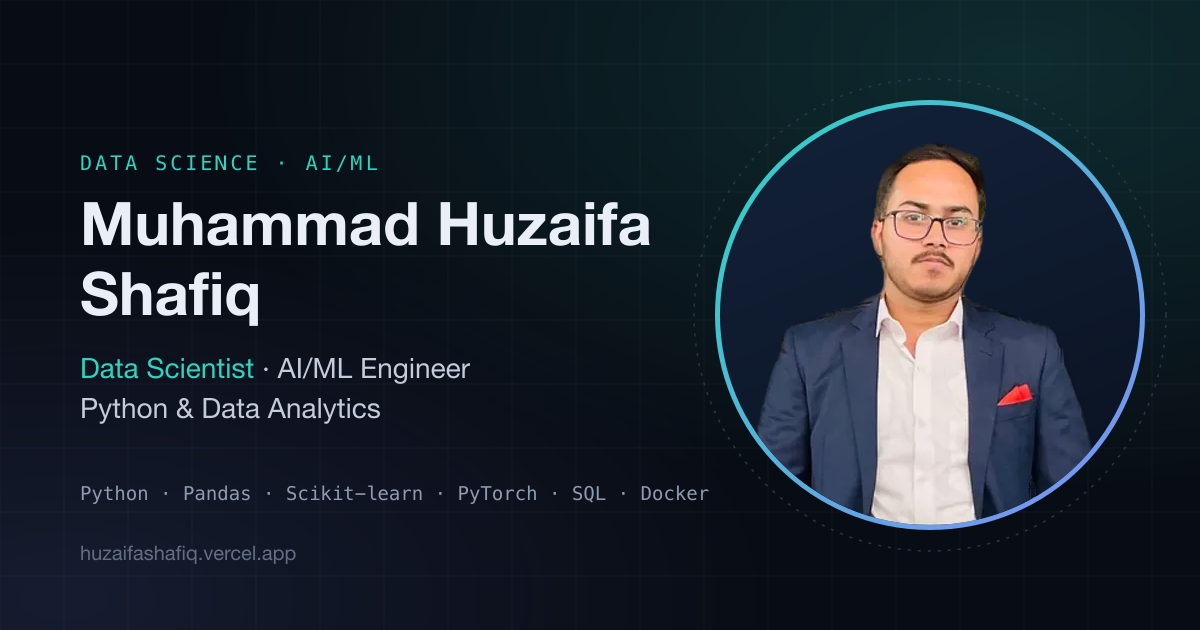
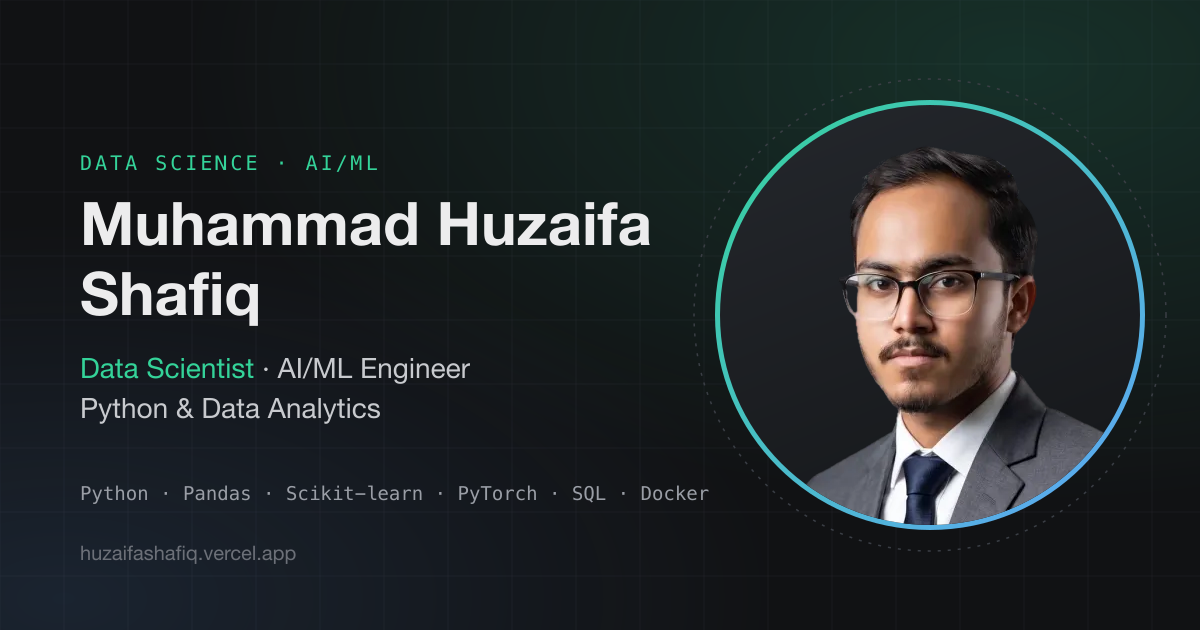
Replace profile photo with new headshot and add back-to-top button
- New studio headshot: background removed, grey rim around the hair
  cleaned up, head-and-shoulders crop for the circular frame; saved under
  a new filename so cached copies of the old photo aren't served
- Updated alt text and README references
- Regenerated the Open Graph image with the new photo and the charcoal /
  emerald palette
- Back-to-top button fixed at the middle of the right edge: appears after
  scrolling, ring shows scroll progress, smooth scroll (instant with
  reduced motion) and returns keyboard focus to the top of the page

diff --git a/src/components/BackToTop.tsx b/src/components/BackToTop.tsx
@@ -1,0 +1,76 @@
+"use client";
+
+import { useEffect, useRef, useState } from "react";
+import { ArrowUp } from "./Icons";
+
+const R = 20;
+const C = 2 * Math.PI * R;
+
+/**
+ * Round "back to top" button fixed at the middle of the right edge.
+ * Appears after scrolling down; the ring shows how far down the page you are.
+ */
+export default function BackToTop() {
+  const [visible, setVisible] = useState(false);
+  const ring = useRef<SVGCircleElement>(null);
+
+  useEffect(() => {
+    let frame = 0;
+    const update = () => {
+      cancelAnimationFrame(frame);
+      frame = requestAnimationFrame(() => {
+        const y = window.scrollY;
+        const max = document.documentElement.scrollHeight - window.innerHeight;
+        setVisible(y > Math.min(600, window.innerHeight * 0.8));
+        ring.current?.setAttribute("stroke-dashoffset", String(C * (1 - (max > 0 ? Math.min(1, y / max) : 0))));
+      });
+    };
+    update();
+    window.addEventListener("scroll", update, { passive: true });
+    window.addEventListener("resize", update);
+    return () => {
+      cancelAnimationFrame(frame);
+      window.removeEventListener("scroll", update);
+      window.removeEventListener("resize", update);
+    };
+  }, []);
+
+  function toTop() {
+    const reduce = window.matchMedia("(prefers-reduced-motion: reduce)").matches;
+    window.scrollTo({ top: 0, behavior: reduce ? "auto" : "smooth" });
+    // Move keyboard focus back to the start of the page as well.
+    document.querySelector<HTMLElement>("header a[href='/#home']")?.focus({ preventScroll: true });
+  }
+
+  return (
+    <button
+      type="button"
+      onClick={toTop}
+      aria-label="Back to top"
+      title="Back to top"
+      tabIndex={visible ? 0 : -1}
+      aria-hidden={!visible}
+      className={`group fixed top-1/2 right-3 z-40 grid size-11 -translate-y-1/2 place-items-center rounded-full border border-line-strong bg-panel/90 text-ink shadow-lift backdrop-blur transition-all duration-300 hover:border-accent/60 hover:text-accent sm:right-5 sm:size-12 ${
+        visible ? "translate-x-0 opacity-100" : "pointer-events-none translate-x-4 opacity-0"
+      }`}
+    >
+      <svg className="absolute inset-0 size-full -rotate-90" viewBox="0 0 48 48" aria-hidden>
+        <circle cx="24" cy="24" r={R} fill="none" stroke="var(--line)" strokeWidth="2" />
+        <circle
+          ref={ring}
+          cx="24"
+          cy="24"
+          r={R}
+          fill="none"
+          stroke="var(--accent)"
+          strokeWidth="2"
+          strokeLinecap="round"
+          strokeDasharray={C}
+          strokeDashoffset={C}
+          className="transition-[stroke-dashoffset] duration-150"
+        />
+      </svg>
+      <ArrowUp size={18} className="relative transition-transform duration-200 group-hover:-translate-y-0.5" />
+    </button>
+  );
+}

diff --git a/src/app/layout.tsx b/src/app/layout.tsx
@@ -4,6 +4,7 @@ import "@/styles/globals.css";
 import SiteHeader from "@/components/SiteHeader";
 import SiteFooter from "@/components/SiteFooter";
 import BackgroundFX from "@/components/BackgroundFX";
+import BackToTop from "@/components/BackToTop";
 import { themeInitScript } from "@/components/ThemeToggle";
 import { seo, siteUrl } from "@/data/site";
 import { profile } from "@/data/profile";
@@ -76,6 +77,7 @@ export default function RootLayout({ children }: { children: React.ReactNode }) 
         <SiteHeader />
         <main id="main">{children}</main>
         <SiteFooter />
+        <BackToTop />
       </body>
     </html>
   );

diff --git a/src/data/profile.ts b/src/data/profile.ts
@@ -47,9 +47,9 @@ export const profile = {
 
   /** Background-removed portrait in /public/images/ (square, transparent). */
   photo: {
-    src: "/images/profile-portrait.webp",
-    srcSmall: "/images/profile-portrait-360.webp",
-    alt: "Portrait of Muhammad Huzaifa Shafiq wearing a navy blazer and glasses",
+    src: "/images/profile-headshot.webp",
+    srcSmall: "/images/profile-headshot-360.webp",
+    alt: "Portrait of Muhammad Huzaifa Shafiq in a grey suit, white shirt and navy tie, wearing glasses",
     width: 720,
     height: 720,
   },

diff --git a/src/components/Icons.tsx b/src/components/Icons.tsx
@@ -26,6 +26,9 @@ export const ArrowRight = ({ size, ...p }: P) => (
 export const ArrowLeft = ({ size, ...p }: P) => (
   <svg {...base(size)} {...p}><path d="M19 12H5M11 18l-6-6 6-6" /></svg>
 );
+export const ArrowUp = ({ size, ...p }: P) => (
+  <svg {...base(size)} {...p}><path d="M12 19V5M6 11l6-6 6 6" /></svg>
+);
 export const ArrowUpRight = ({ size, ...p }: P) => (
   <svg {...base(size)} {...p}><path d="M7 17 17 7M8 7h9v9" /></svg>
 );

diff --git a/src/sections/Hero.tsx b/src/sections/Hero.tsx
@@ -122,7 +122,7 @@ export default function Hero() {
                   height={profile.photo.height}
                   fetchPriority="high"
                   decoding="async"
-                  className="aspect-square h-auto w-full translate-y-[5%] object-cover"
+                  className="aspect-square h-auto w-full object-cover"
                 />
               </div>
             </div>

diff --git a/README.md b/README.md
@@ -29,7 +29,7 @@ Built with **Next.js (App Router) · React · TypeScript · Tailwind CSS**. The 
 ```
 huzaifa-portfolio/
 ├── public/
-│   ├── images/          profile-portrait.webp + -360 (your photo, background removed), og-image.png (link preview)
+│   ├── images/          profile-headshot.webp + -360 (your photo, background removed), og-image.png (link preview)
 │   ├── projects/        one visual per project (.svg — replace with .png/.jpg screenshots any time)
 │   ├── certificates/    (optional) put downloaded badge images here
 │   └── resume/          Huzaifa_Shafiq_CV.pdf
@@ -145,7 +145,7 @@ All content lives in `src/data/`. Open a file, change the text between the quote
 
 **Add a certification:** open the badge on Credly and copy its URL (`https://www.credly.com/badges/...`). Right-click the badge image → *Copy image address*. Then add a block in `src/data/certifications.ts`. To show the University of Michigan certificates listed on your CV, paste their Coursera verification URLs and set `visible: true`.
 
-**Replace your photo:** save a square, background-removed WebP as `public/images/profile-portrait.webp` (720×720) and `profile-portrait-360.webp` (360×360), or change `photo` in `profile.ts`.
+**Replace your photo:** save a square, background-removed WebP as `public/images/profile-headshot.webp` (720×720) and `profile-headshot-360.webp` (360×360), or change `photo` in `profile.ts`.
 
 **Replace your CV:** overwrite `public/resume/Huzaifa_Shafiq_CV.pdf` with the new file, keeping the same name.
 
